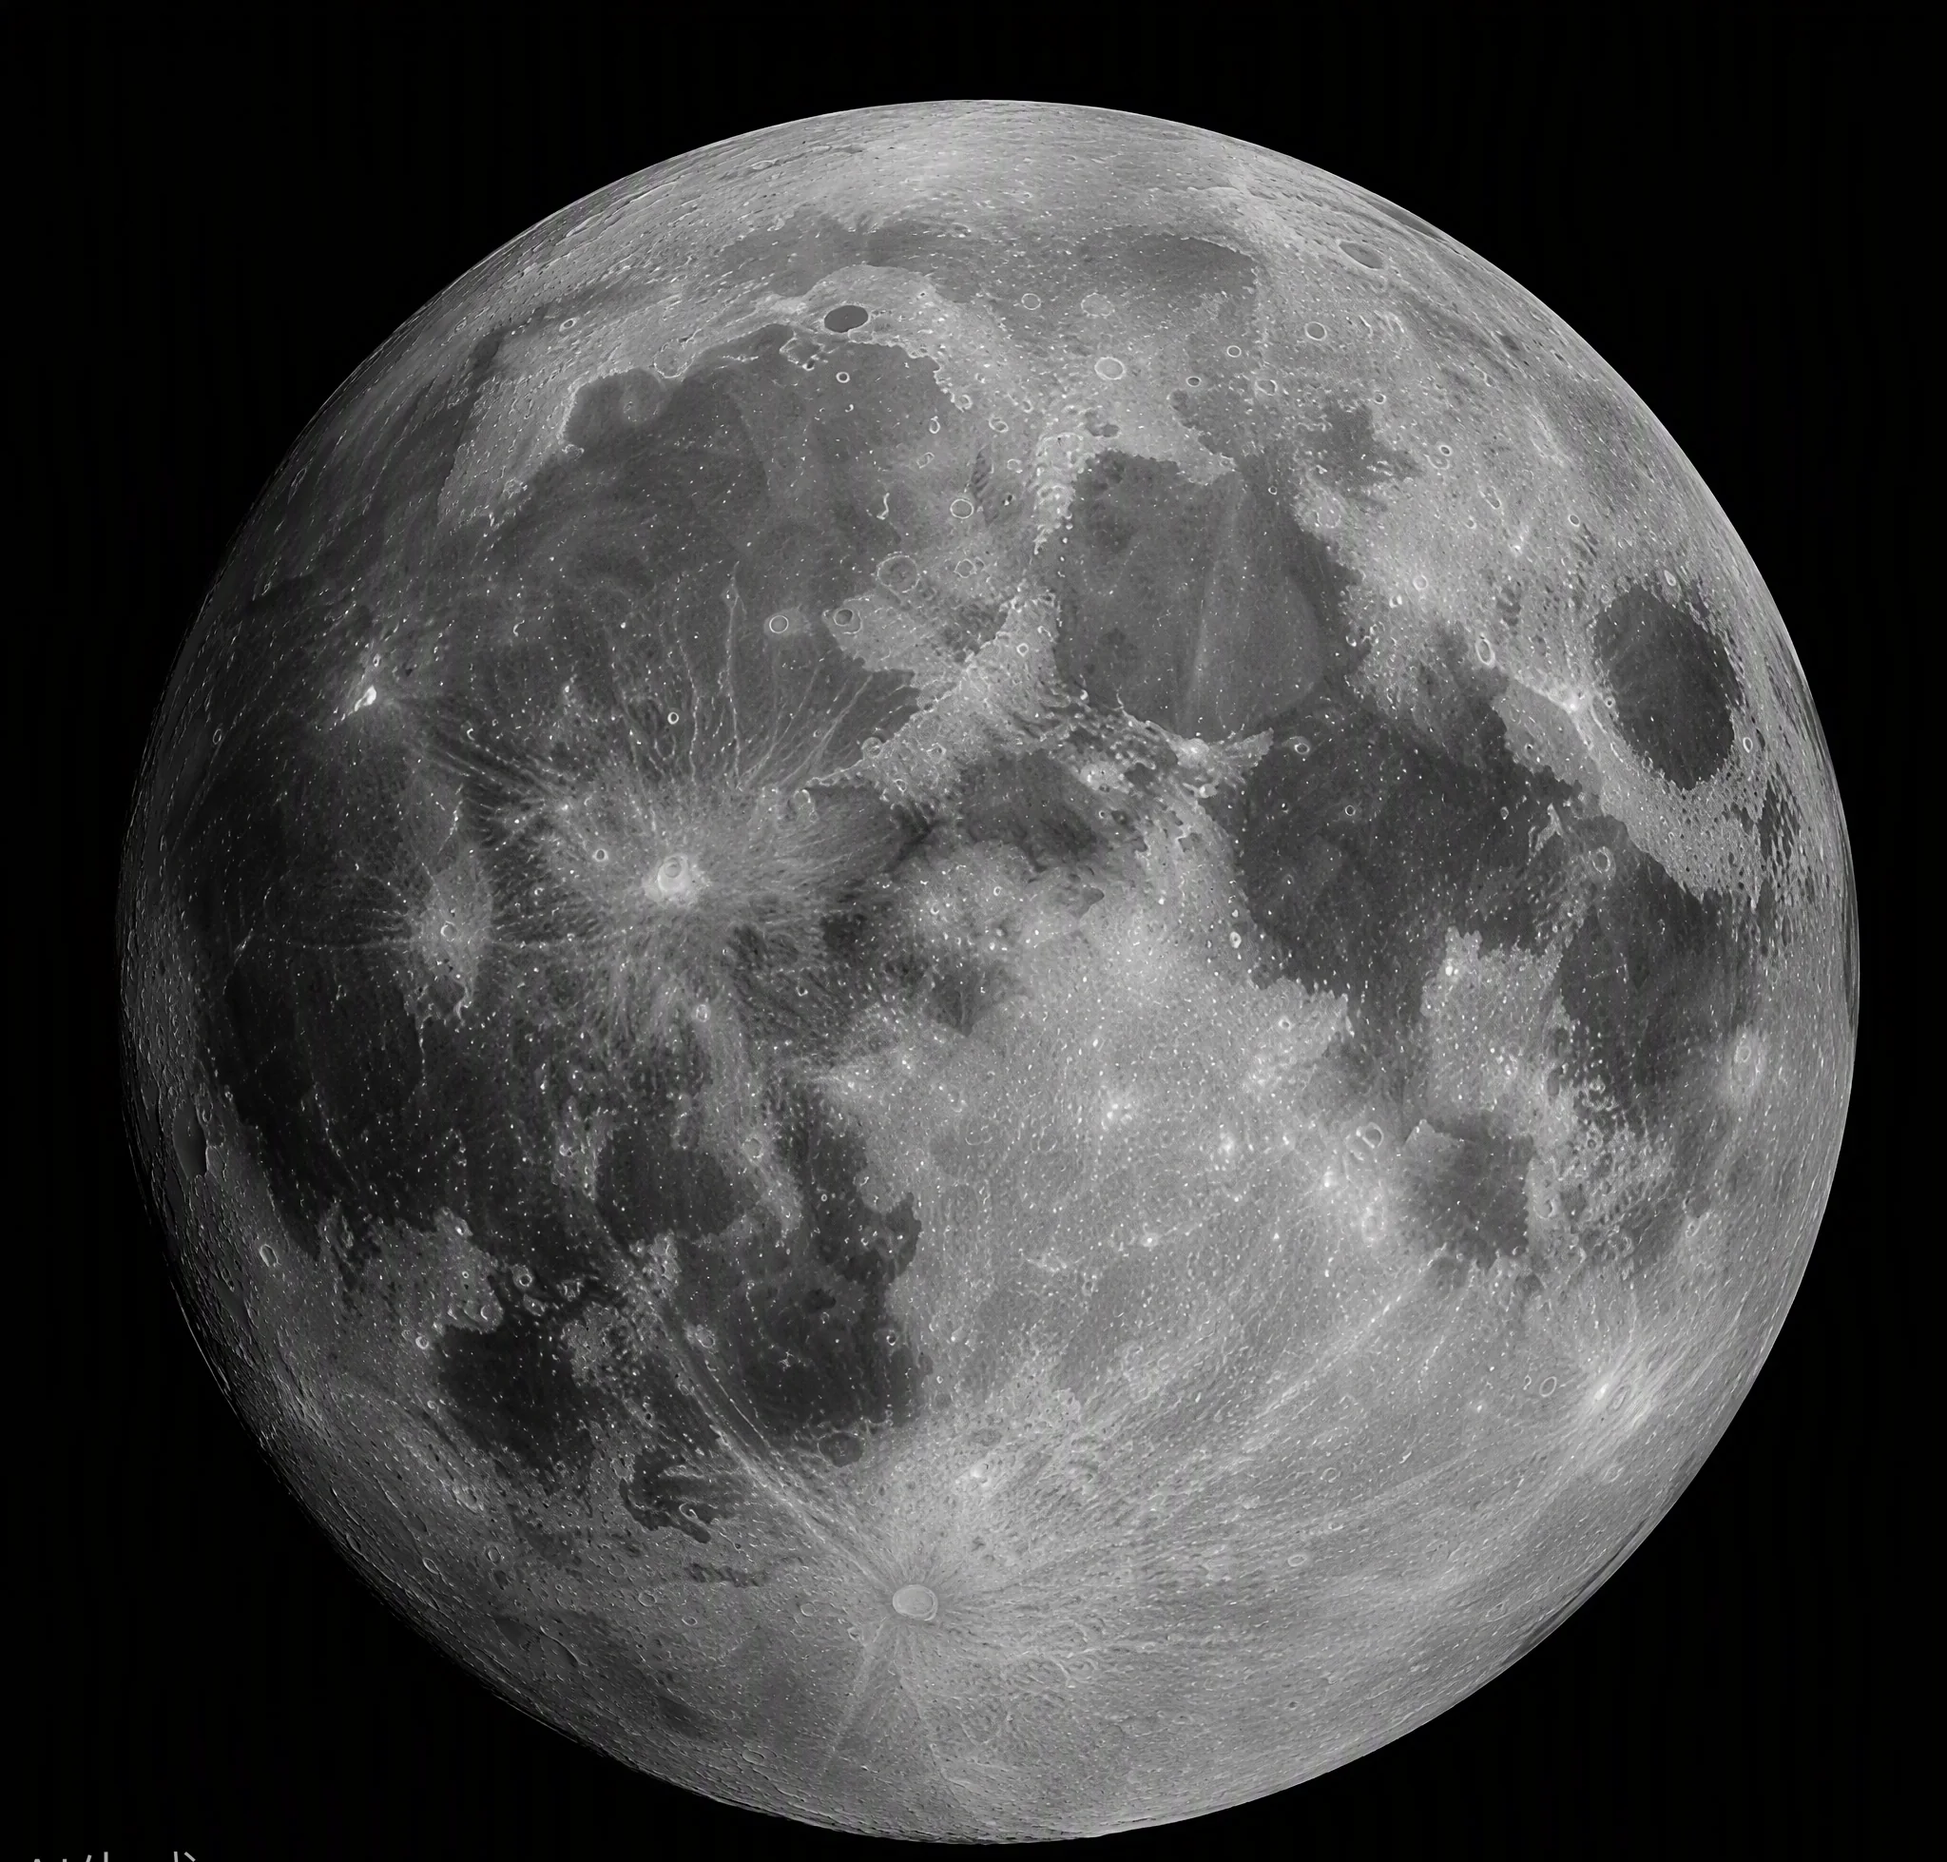
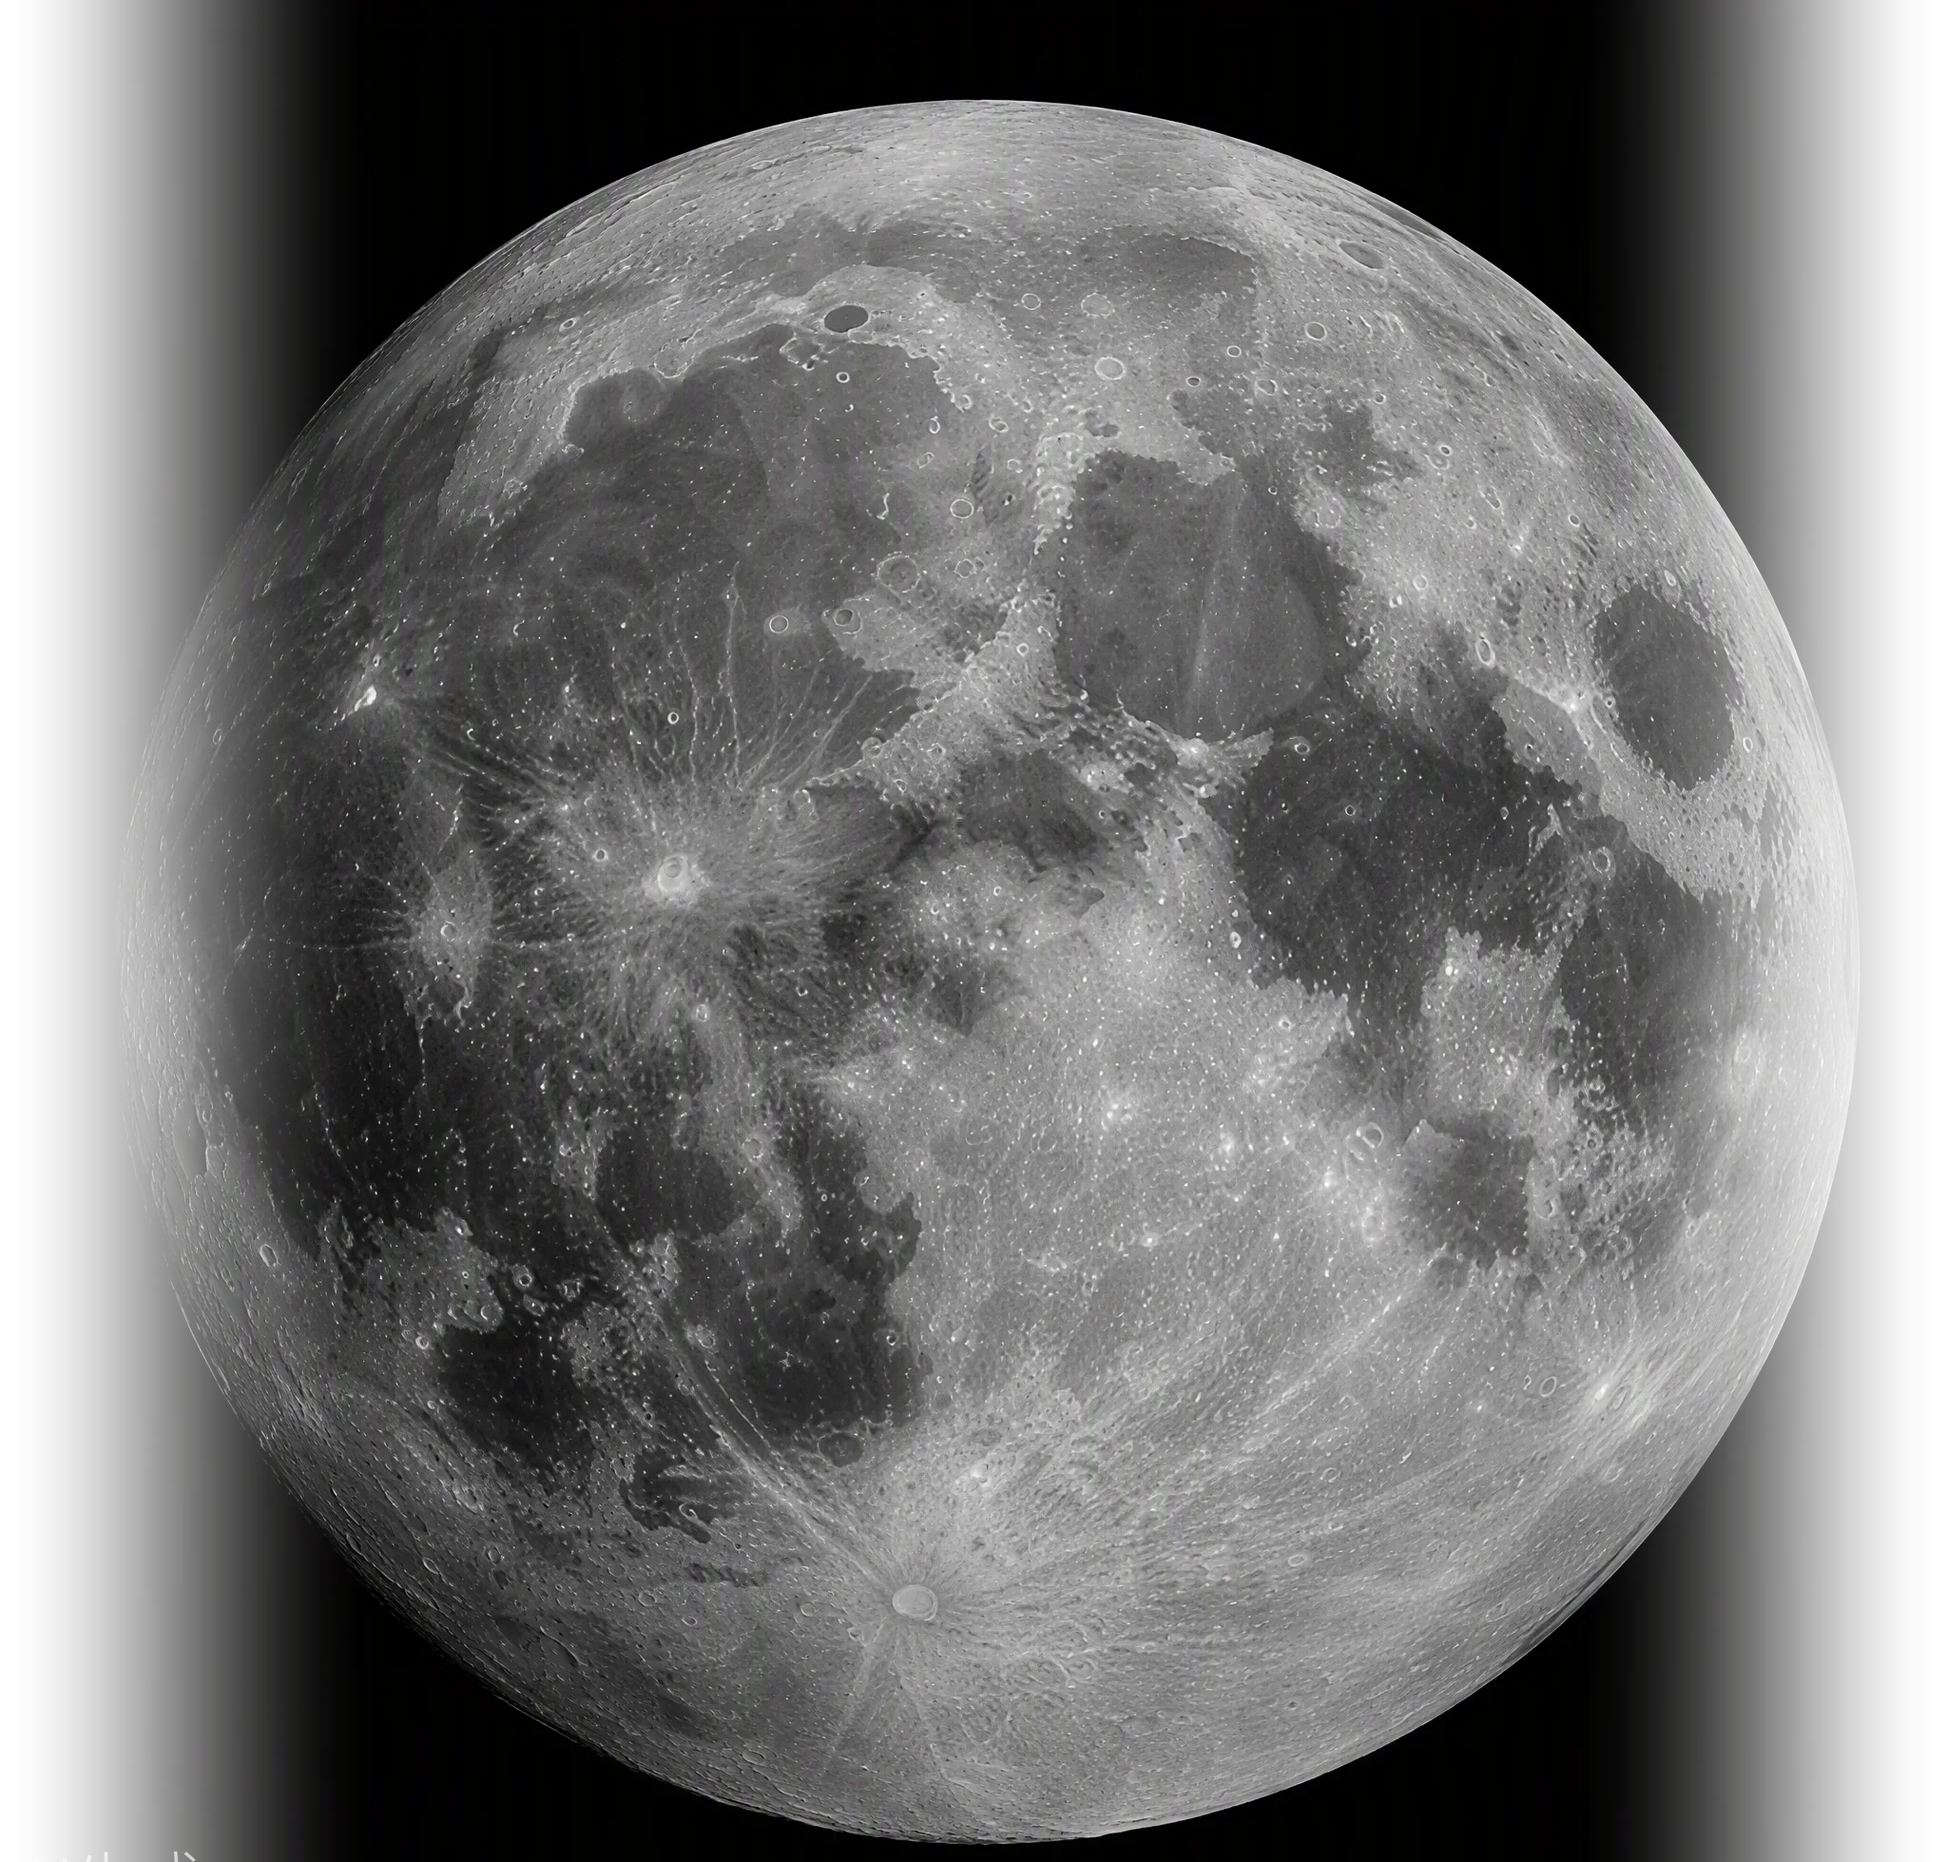
feat(site): 融合版细节优化 — 月球边缘融合 + 移除顶部光晕色带
- moon.webp 重出：左右 38% 宽度加 smoothstep alpha 渐隐，
  消除图片矩形边与纯黑背景之间的可见竖缝
- 删除 .hero::before 顶部紫光晕（blur 椭圆在导航下方形成
  可见横带，经禁用对照实验确认；紫色氛围由 body 环境渐变
  与月球背光承担）
- CSS 版本号 bump 至 20260805-fusion-violet2

测试：12/12 通过；git diff --check 干净；桌面/移动截图复验通过

Changed region(s): [[0.8438, 0.0, 1.0, 1.0], [0.0, 0.0, 0.1562, 1.0]]

diff --git a/site/homepage.css b/site/homepage.css
@@ -54,7 +54,6 @@ button{color:inherit}
 .mobile-menu{display:none;position:relative;justify-self:end}
 
 .hero{position:relative;min-height:100svh;padding:150px 0 110px;overflow:hidden}
-.hero::before{content:"";position:absolute;z-index:0;top:-340px;left:50%;width:940px;height:760px;transform:translateX(-50%);background:radial-gradient(ellipse at center,rgba(146,120,255,.34),rgba(146,120,255,.1) 46%,transparent 72%);filter:blur(24px);pointer-events:none}
 .starfield{position:absolute;inset:0;pointer-events:none}
 .starfield::before,.starfield::after{content:"";position:absolute;top:0;left:0;width:1px;height:1px;border-radius:50%;background:transparent}
 .starfield::before{box-shadow:663px 154px 0 0 rgba(255,255,255,0.67),98px 74px 0 0 rgba(255,255,255,0.9),192px 374px 0 0 rgba(255,255,255,0.77),1039px 219px 0 0 rgba(255,255,255,0.47),888px 428px 0 0 rgba(255,255,255,0.49),185px 564px 0 0 rgba(255,255,255,0.68),1158px 126px 0 0 rgba(255,255,255,0.97),1291px 642px 0 0 rgba(255,255,255,0.77),126px 590px 0 0 rgba(255,255,255,0.77),101px 226px 0 0 rgba(255,255,255,0.48),272px 296px 0 0 rgba(255,255,255,0.68),1107px 120px 0 0 rgba(255,255,255,0.76),1147px 835px 0 0 rgba(255,255,255,0.83),211px 595px 0 0 rgba(255,255,255,0.76),384px 381px 0 0 rgba(255,255,255,0.5),1458px 64px 0 0 rgba(255,255,255,0.76),1267px 210px 0 0 rgba(255,255,255,0.72),1088px 437px 0 0 rgba(255,255,255,0.88),953px 599px 0 0 rgba(255,255,255,0.96),740px 306px 0 0 rgba(255,255,255,0.59),368px 715px 0 0 rgba(255,255,255,0.88),167px 588px 0 0 rgba(255,255,255,0.62),1013px 896px 0 0 rgba(255,255,255,0.64),919px 294px 0 0 rgba(255,255,255,0.78),149px 120px 0 0 rgba(255,255,255,0.73),337px 775px 0 0 rgba(255,255,255,0.64),1001px 431px 0 0 rgba(255,255,255,0.47),1368px 79px 0 0 rgba(255,255,255,0.87),1173px 808px 0 0 rgba(255,255,255,0.93),642px 348px 0 0 rgba(255,255,255,0.83),1217px 508px 0 0 rgba(255,255,255,0.77),934px 70px 0 0 rgba(255,255,255,0.91),552px 485px 0 0 rgba(255,255,255,0.83),133px 62px 0 0 rgba(255,255,255,0.85),634px 662px 0 0 rgba(255,255,255,0.77),1395px 841px 0 0 rgba(255,255,255,0.7),1467px 395px 0 0 rgba(255,255,255,0.94),710px 23px 0 0 rgba(255,255,255,0.97),727px 172px 0 0 rgba(255,255,255,0.79),1011px 60px 0 0 rgba(255,255,255,0.57),588px 132px 0 0 rgba(255,255,255,0.86),814px 400px 0 0 rgba(255,255,255,0.95),1016px 82px 0 0 rgba(255,255,255,0.54),822px 562px 0 0 rgba(255,255,255,0.6),280px 838px 0 0 rgba(255,255,255,0.69),1126px 285px 0 0 rgba(255,255,255,0.84),734px 699px 0 0 rgba(255,255,255,0.94),472px 154px 0 0 rgba(255,255,255,0.5),309px 237px 0 0 rgba(255,255,255,0.81),24px 496px 0 0 rgba(255,255,255,0.91),373px 269px 0 0 rgba(255,255,255,0.61),298px 429px 0 0 rgba(255,255,255,0.74),1248px 579px 0 0 rgba(255,255,255,0.63),257px 707px 0 0 rgba(255,255,255,0.92),1264px 670px 0 0 rgba(255,255,255,0.82),110px 467px 0 0 rgba(255,255,255,0.94),1597px 895px 0 0 rgba(255,255,255,0.82),1145px 401px 0 0 rgba(255,255,255,0.67),807px 106px 0 0 rgba(255,255,255,0.71),820px 63px 0 0 rgba(255,255,255,0.55),427px 451px 0 0 rgba(255,255,255,0.54),696px 615px 0 0 rgba(255,255,255,0.48),0px 580px 0 0 rgba(255,255,255,0.53),207px 372px 0 0 rgba(255,255,255,0.79),144px 895px 0 0 rgba(255,255,255,0.56),770px 152px 0 0 rgba(255,255,255,0.8),711px 616px 0 0 rgba(255,255,255,0.65),251px 118px 0 0 rgba(255,255,255,0.92),954px 491px 0 0 rgba(255,255,255,0.72),175px 147px 0 0 rgba(255,255,255,0.51),701px 758px 0 0 rgba(255,255,255,0.6),1417px 165px 0 0 rgba(255,255,255,0.73),420px 540px 0 0 rgba(255,255,255,0.65),1413px 556px 0 0 rgba(255,255,255,0.95),1552px 540px 0 0 rgba(255,255,255,0.61),1316px 884px 0 0 rgba(255,255,255,0.5),534px 530px 0 0 rgba(255,255,255,0.65),342px 364px 0 0 rgba(255,255,255,0.87),1090px 554px 0 0 rgba(255,255,255,0.88),675px 651px 0 0 rgba(255,255,255,0.57),1553px 873px 0 0 rgba(255,255,255,0.56),490px 837px 0 0 rgba(255,255,255,0.67),464px 204px 0 0 rgba(255,255,255,0.73),728px 748px 0 0 rgba(255,255,255,0.47),57px 809px 0 0 rgba(255,255,255,0.6),530px 198px 0 0 rgba(255,255,255,0.83),705px 457px 0 0 rgba(255,255,255,0.89),1480px 357px 0 0 rgba(255,255,255,0.98),746px 82px 0 0 rgba(255,255,255,0.57),464px 481px 0 0 rgba(255,255,255,0.56),418px 494px 0 0 rgba(255,255,255,0.79),1249px 860px 0 0 rgba(255,255,255,0.45),1337px 352px 0 0 rgba(255,255,255,0.89),173px 854px 0 0 rgba(255,255,255,0.81),795px 801px 0 0 rgba(255,255,255,0.84),408px 489px 0 0 rgba(255,255,255,0.94),888px 808px 0 0 rgba(255,255,255,0.8),177px 820px 0 0 rgba(255,255,255,0.97),1478px 405px 0 0 rgba(255,255,255,0.7),1522px 86px 0 0 rgba(255,255,255,0.85),348px 130px 0 0 rgba(255,255,255,0.47),1209px 926px 0 0 rgba(255,255,255,0.71),1343px 149px 0 0 rgba(255,255,255,0.79),1220px 485px 0 0 rgba(255,255,255,0.81),717px 159px 0 0 rgba(255,255,255,0.75),268px 21px 0 0 rgba(255,255,255,0.46),1487px 665px 0 0 rgba(255,255,255,0.51),1534px 142px 0 0 rgba(255,255,255,0.69),398px 845px 0 0 rgba(255,255,255,0.93),57px 257px 0 0 rgba(255,255,255,0.57),1026px 246px 0 0 rgba(255,255,255,0.87),667px 265px 0 0 rgba(255,255,255,0.75),268px 62px 0 0 rgba(255,255,255,0.95),724px 919px 0 0 rgba(255,255,255,0.7),1194px 834px 0 0 rgba(255,255,255,0.95),861px 846px 0 0 rgba(255,255,255,0.95),1027px 133px 0 0 rgba(255,255,255,0.74),1072px 522px 0 0 rgba(255,255,255,0.46),901px 795px 0 0 rgba(255,255,255,0.55),8px 794px 0 0 rgba(255,255,255,0.89),352px 144px 0 0 rgba(255,255,255,0.71),1485px 123px 0 0 rgba(255,255,255,0.76),667px 698px 0 0 rgba(255,255,255,0.74),1137px 494px 0 0 rgba(255,255,255,0.88),217px 904px 0 0 rgba(255,255,255,0.76),508px 195px 0 0 rgba(255,255,255,0.6),1581px 100px 0 0 rgba(255,255,255,0.73),1150px 28px 0 0 rgba(255,255,255,0.87),129px 453px 0 0 rgba(255,255,255,0.63),1035px 620px 0 0 rgba(255,255,255,0.73),1418px 283px 0 0 rgba(255,255,255,0.7),1092px 826px 0 0 rgba(255,255,255,0.71),507px 715px 0 0 rgba(255,255,255,0.74),531px 944px 0 0 rgba(255,255,255,0.76),414px 860px 0 0 rgba(255,255,255,0.7),853px 124px 0 0 rgba(255,255,255,0.67),647px 74px 0 0 rgba(255,255,255,0.82),877px 74px 0 0 rgba(255,255,255,0.57),620px 802px 0 0 rgba(255,255,255,0.52),1591px 158px 0 0 rgba(255,255,255,0.97),1317px 676px 0 0 rgba(255,255,255,0.65),518px 904px 0 0 rgba(255,255,255,0.53),957px 224px 0 0 rgba(255,255,255,0.86),192px 407px 0 0 rgba(255,255,255,0.94),333px 683px 0 0 rgba(255,255,255,0.91),330px 723px 0 0 rgba(255,255,255,0.69),1055px 413px 0 0 rgba(255,255,255,0.64),400px 365px 0 0 rgba(255,255,255,0.63),1478px 374px 0 0 rgba(255,255,255,0.46),1134px 469px 0 0 rgba(255,255,255,0.69);animation:twinkle 5s ease-in-out infinite alternate}

diff --git a/site/index.html b/site/index.html
@@ -6,7 +6,7 @@
   <meta name="description" content="黄雀 AI：从 IP12、Agent 与无限画布，到图文音视频生产和 HQ CLI。">
   <title>黄雀 AI · 会持续生长的内容系统</title>
   <link rel="icon" href="/assets/logo_sparrow.png">
-  <link rel="stylesheet" href="/homepage.css?v=20260805-fusion-violet">
+  <link rel="stylesheet" href="/homepage.css?v=20260805-fusion-violet2">
 </head>
 <body>
   <a class="skip-link" href="#main">跳到主要内容</a>
